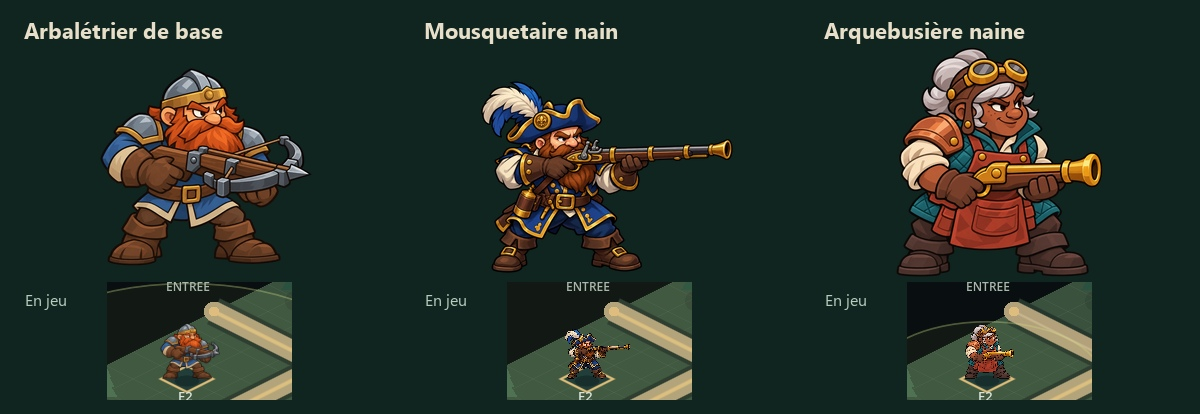
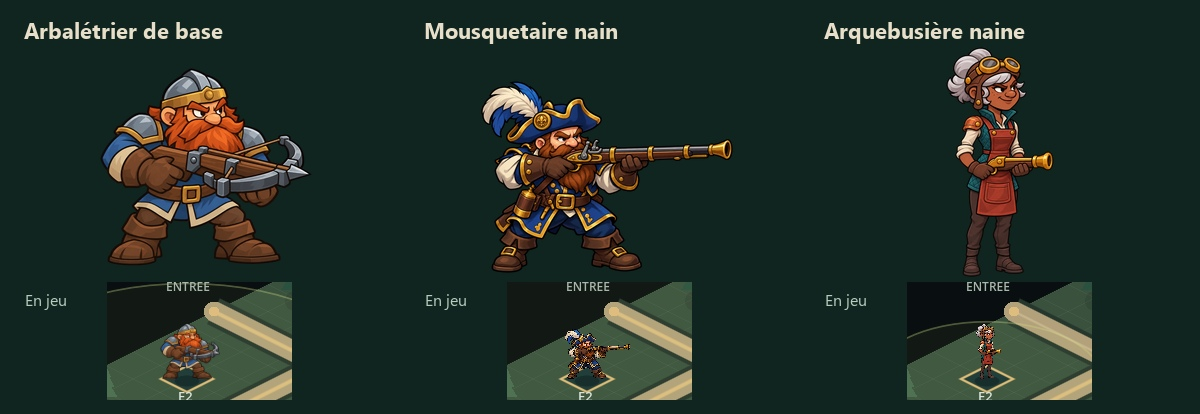
Refine the dwarf arquebusier silhouette

Changed region(s): [[0.74, 0.1159, 0.925, 0.6667], [0.8017, 0.7826, 0.8633, 0.9275]]

diff --git a/PASSATION.md b/PASSATION.md
@@ -4,7 +4,7 @@ Mettre ce fichier à jour à chaque fin de mission ou changement d'agent (voir `
 
 ## État au 14 novembre 2026 — Codex
 
-**Arquebusière naine, type 12.** Proposition de visuel à arme courte portée à la taille, tablier rouge et lunettes de cuir. Portrait, recrutement et premier tir contrôlés sur copie v0.197. Comparaison avec l’arbalétrier et le mousquetaire et 45 contrôles réussis. Avis du porteur attendu avant branchement. [Fiche](design/Visuels_Boutique_Arquebusiere.md).
+**Arquebusière naine, type 12.** Silhouette affinée à la demande du porteur. Portrait, recrutement et premier tir vérifiés sur copie v0.197, avec 45 contrôles d’illustrations réussis. Cadre, ancrage et comparatif actualisés. Avis du porteur attendu avant branchement. [Fiche](design/Visuels_Boutique_Arquebusiere.md).
 
 **Veilleur des cendres, type 16.** Le porteur a validé le portrait au guet et la pose de plateau accroupie (`8f328e0`, 14 novembre 2026). Copie v0.197 : rendu en boutique contrôlé, 40 contrôles d’illustrations réussis et six passages jusqu’au premier tir. Les deux poses sont prêtes à brancher. [Comparatif](design/essais/boutique_guetteurs/Troll_haches_javelinier_veilleur.jpg).
 

diff --git a/design/Visuels_Boutique_Arquebusiere.md b/design/Visuels_Boutique_Arquebusiere.md
@@ -6,6 +6,8 @@ Proposition artistique du 14 novembre 2026, en attente d’avis. Le type 12 (`al
 
 | Type | Fichier portrait et plateau | Cadre | Pied | Hauteur | Origine du tir |
 | --- | --- | --- | --- | ---: | --- |
-| 12 | `arquebusier_nain_v001.png` | `Rect2(0,0,1049,1167)` | `(478,1167)` | 55 | `(25.0,-25.75)` |
+| 12 | `arquebusier_nain_v001.png` | `Rect2(0,0,655,1396)` | `(286,1396)` | 55 | `(14.25,-27.25)` |
+
+À la demande du porteur, la silhouette a été affinée avec des épaules moins larges, un tablier ajusté et des bottes plus fines. La hauteur sur le plateau est de 55 px.
 
 Sur une copie isolée v0.197, le portrait apparaît dans la boutique et l’unité se débloque, se recrute au Gué et tire. Comparaison au même emplacement avec l’arbalétrier de base et le mousquetaire nain. Le contrôle étendu des illustrations donne 45 réussites. Le projectile et le libellé de la copie sont ceux du prototype actuel. À l’intégration, proposer « Arquebusière naine » comme libellé et un rendu de projectile cohérent avec l’illustration.

diff --git a/ECHANGES_CODEX_VERS_CLAUDE.md b/ECHANGES_CODEX_VERS_CLAUDE.md
@@ -8,7 +8,7 @@ Format d'une entrée : `### AAAA-MM-JJ — Titre (ouvert)` puis le contenu : fic
 
 ### 2026-11-14 — Arquebusière naine proposée (ouvert)
 
-Le PNG du type 12 attend l’avis du porteur. La [fiche](design/Visuels_Boutique_Arquebusiere.md) donne le cadre, l’ancre et l’origine du tir. Le portrait et le sprite partagent ce PNG. Une fois validé, harmoniser le libellé avec le personnage proposé et associer un rendu de tir approprié à l’illustration.
+Le PNG du type 12 a été affiné à la demande du porteur et attend son avis. La [fiche](design/Visuels_Boutique_Arquebusiere.md) donne le cadre, l’ancre et l’origine du tir actualisés. Le portrait et le sprite partagent ce PNG. Une fois validé, harmoniser le libellé avec le personnage proposé et associer un rendu de tir approprié à l’illustration.
 
 ### 2026-11-14 — Veilleur des cendres validé, à intégrer (ouvert)
 
